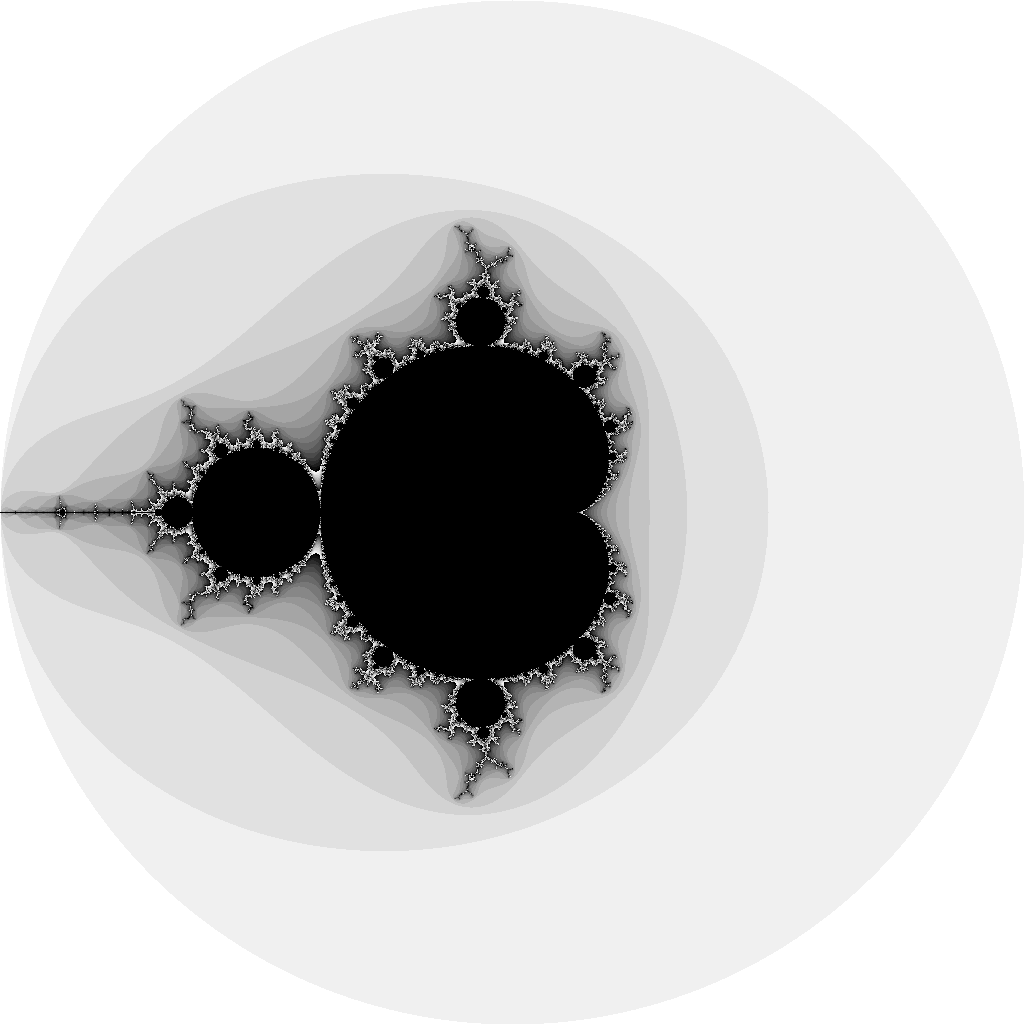
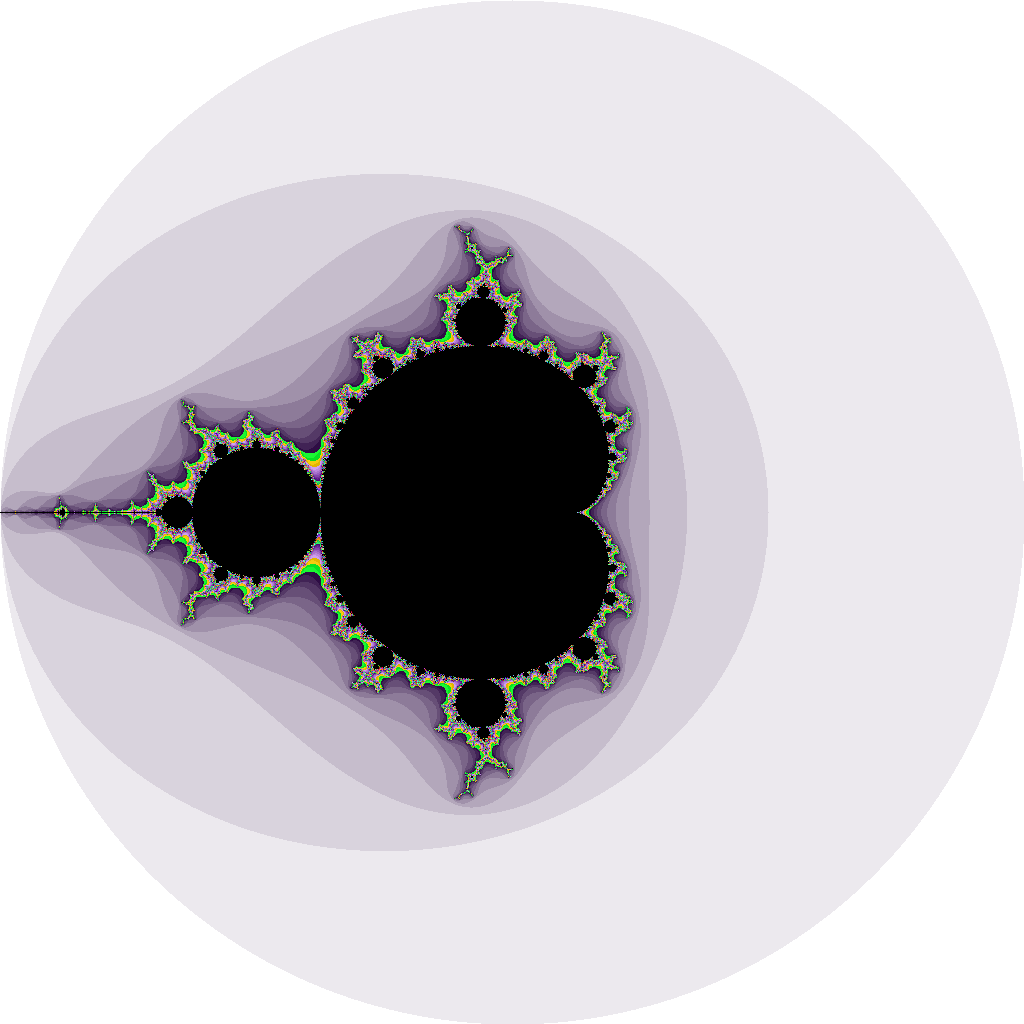
mandelbrot

Changed region(s): [[0.0, 0.1875, 0.6562, 0.8125]]

diff --git a/ch3/mandelbrot/mandelbrotPackage/mandelbrot.go b/ch3/mandelbrot/mandelbrotPackage/mandelbrot.go
@@ -28,13 +28,19 @@ func Mandelbrot() {
 
 func mandelbrot(z complex128) color.Color {
 	const iterations = 200
-	const contrast = 15
+	//ex3.5 full color mandelbrot
+	const (
+		red   = 19
+		green = 22
+		blue  = 17
+		a     = 0
+	)
 
 	var v complex128
 	for n := uint8(0); n < iterations; n++ {
 		v = v*v + z
 		if cmplx.Abs(v) > 2 {
-			return color.Gray{255 - contrast*n}
+			return color.RGBA{255 - red*n, 255 - green*n, 255 - blue*n, 255 - a*n}
 		}
 	}
 	return color.Black
